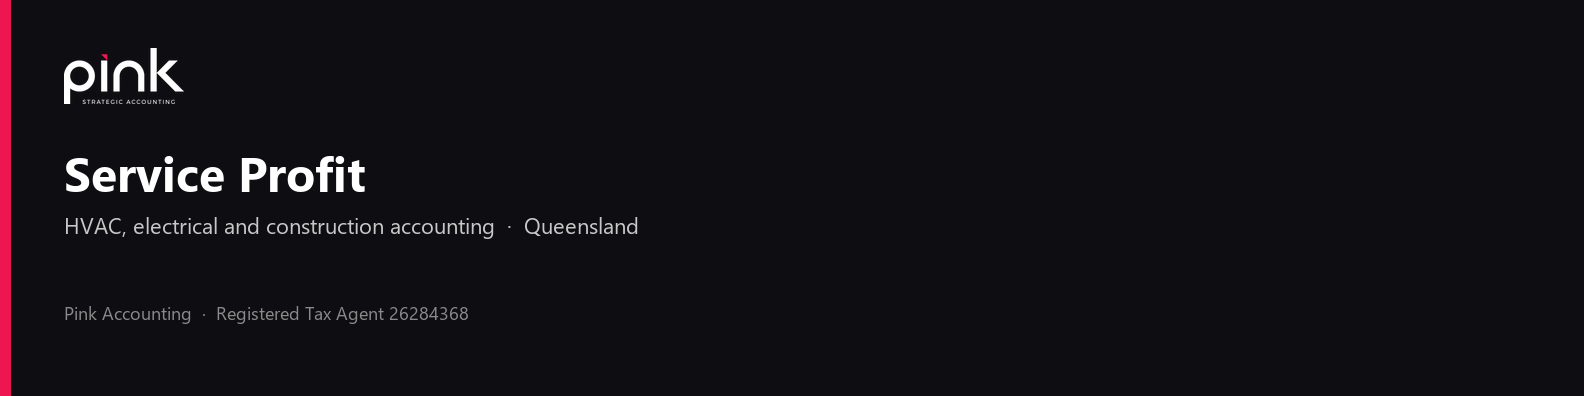
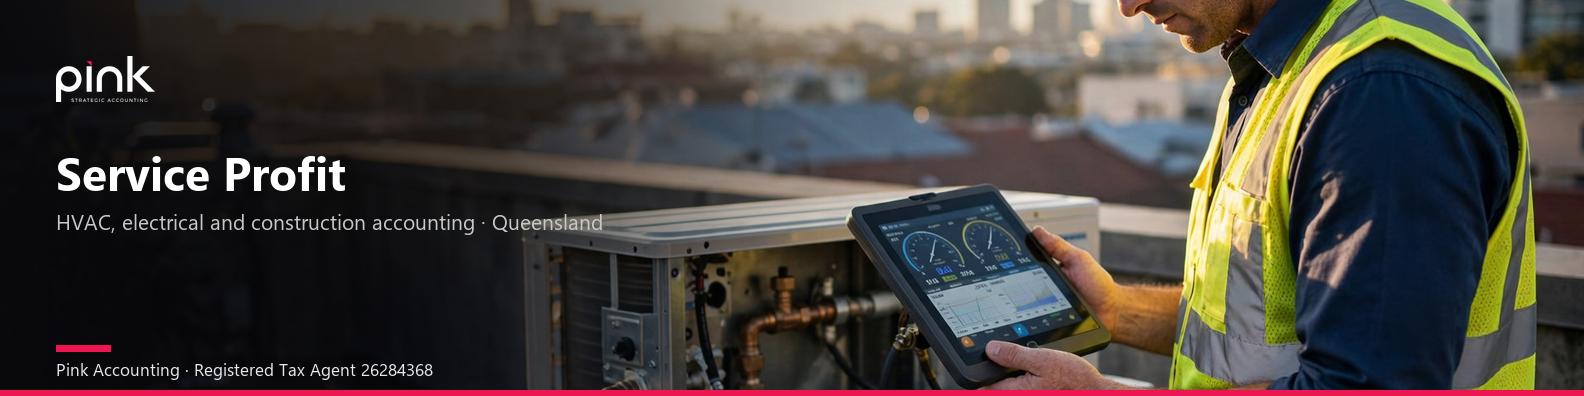
Service Profit social artwork rebuilt photo-led (profile, covers, OG, feed posts) - DRAFT for Pinky approval

diff --git a/tools/build_assets.py b/tools/build_assets.py
@@ -136,67 +136,128 @@ def _paste_logo(canvas, xy, height):
     canvas.paste(logo, xy, logo)
 
 
+SOCIAL = ASSETS / "social"
+MASTERS = SOCIAL / "masters"
+
+
+def _cover_crop(im, size):
+    tw, th = size
+    scale = max(tw / im.width, th / im.height)
+    resized = im.resize((round(im.width * scale), round(im.height * scale)), Image.Resampling.LANCZOS)
+    x = max(0, (resized.width - tw) // 2)
+    y = max(0, (resized.height - th) // 2)
+    return resized.crop((x, y, x + tw, y + th))
+
+
+def _scrim(im, left_alpha=225):
+    w, h = im.size
+    grad = Image.new("L", (w, h), 0)
+    px = grad.load()
+    for x in range(w):
+        a = int(left_alpha * max(0.0, 1 - x / (w * 0.72)) ** 1.35)
+        for y in range(h):
+            px[x, y] = a
+    black = Image.new("RGB", (w, h), (10, 10, 14))
+    return Image.composite(black, im, grad)
+
+
+def _master(name):
+    path = MASTERS / name
+    if not path.exists():
+        raise FileNotFoundError(f"social master missing: {path}")
+    return Image.open(path).convert("RGB")
+
+
+def _banner(size, master, headline, sub, footer, logo_h, head_size, sub_size, foot_size, pad):
+    im = _scrim(_cover_crop(_master(master), size))
+    w, h = size
+    _paste_logo(im, (pad, pad), logo_h)
+    d = ImageDraw.Draw(im)
+    y = pad + logo_h + int(h * 0.10)
+    d.text((pad, y), headline, fill=WHITE, font=_font(head_size))
+    y += int(head_size * 1.45)
+    for line in sub:
+        d.text((pad, y), line, fill=MUTED, font=_font(sub_size, bold=False))
+        y += int(sub_size * 1.5)
+    d.rectangle([pad, h - foot_size - 34, pad + 54, h - foot_size - 28], fill=PINK)
+    d.text((pad, h - foot_size - 22), footer, fill="#E8E8E8", font=_font(foot_size, bold=False))
+    d.rectangle([0, h - 6, w, h], fill=PINK)
+    return im
+
+
 def build_og() -> None:
-    og = Image.new("RGB", (1200, 630), INK)
-    d = ImageDraw.Draw(og)
-    d.rectangle([0, 0, 8, 630], fill=PINK)
-    _paste_logo(og, (72, 56), 56)
-    d.text((72, 200), "Service Profit", fill=WHITE, font=_font(64))
-    d.text((72, 286), "Pink Accounting for HVAC, electrical", fill=MUTED, font=_font(32, bold=False))
-    d.text((72, 330), "and construction service businesses.", fill=MUTED, font=_font(32, bold=False))
-    d.text((72, 520), "Queensland  ·  Registered Tax Agent 26284368", fill=SOFT, font=_font(22, bold=False))
+    og = _banner(
+        (1200, 630), "hvac-rooftop.jpg", "Service Profit",
+        ["Accounting for air con, electrical", "and construction businesses."],
+        "Pink Accounting \u00b7 Brendale QLD \u00b7 Registered Tax Agent 26284368",
+        logo_h=52, head_size=62, sub_size=29, foot_size=20, pad=64,
+    )
     png = ASSETS / "og.png"
-    webp = ASSETS / "og.webp"
     og.save(png, "PNG", optimize=True)
-    og.save(webp, "WEBP", quality=82, method=6)
-    print("og", png.stat().st_size, webp.stat().st_size)
+    print("og", png.stat().st_size)
 
 
 def build_social() -> None:
-    social = ASSETS / "social"
-    social.mkdir(exist_ok=True)
+    SOCIAL.mkdir(exist_ok=True)
 
     def save(im, name):
-        path = social / name
+        path = SOCIAL / name
         im.save(path, "PNG", optimize=True)
         print(name, im.size, path.stat().st_size)
 
     av = Image.new("RGB", (1080, 1080), INK)
+    logo = Image.open(ASSETS / "logo-white.png").convert("RGBA")
+    lh = 148
+    logo = logo.resize((int(logo.width * lh / logo.height), lh), Image.Resampling.LANCZOS)
+    av.paste(logo, ((1080 - logo.width) // 2, 262), logo)
     d = ImageDraw.Draw(av)
-    d.rectangle([0, 0, 16, 1080], fill=PINK)
-    _paste_logo(av, (96, 280), 88)
-    d.text((96, 420), "Service Profit", fill=WHITE, font=_font(64))
-    d.text((96, 510), "HVAC, electrical and construction", fill=MUTED, font=_font(28, bold=False))
-    d.text((96, 900), "Pink Accounting  ·  Tax Agent 26284368", fill=SOFT, font=_font(24, bold=False))
+    f_head = _font(94)
+    head = "Service Profit"
+    d.text(((1080 - d.textlength(head, font=f_head)) / 2, 446), head, fill=WHITE, font=f_head)
+    d.rectangle([460, 576, 620, 585], fill=PINK)
+    f_sub = _font(29, bold=False)
+    sub = "AIR CON \u00b7 ELECTRICAL \u00b7 CONSTRUCTION"
+    d.text(((1080 - d.textlength(sub, font=f_sub)) / 2, 620), sub, fill=MUTED, font=f_sub)
+    f_foot = _font(26, bold=False)
+    foot = "A Pink Accounting service"
+    d.text(((1080 - d.textlength(foot, font=f_foot)) / 2, 672), foot, fill=SOFT, font=f_foot)
     save(av, "profile-1080.png")
+    av.resize((720, 720), Image.Resampling.LANCZOS).save(SOCIAL / "profile-facebook-720.png", "PNG", optimize=True)
+    av.resize((300, 300), Image.Resampling.LANCZOS).save(SOCIAL / "profile-linkedin-300.png", "PNG", optimize=True)
+    print("profile exports 720/300 written")
 
-    fb = Image.new("RGB", (1640, 624), INK)
-    d = ImageDraw.Draw(fb)
-    d.rectangle([0, 0, 12, 624], fill=PINK)
-    _paste_logo(fb, (72, 140), 56)
-    d.text((72, 230), "Service Profit", fill=WHITE, font=_font(56))
-    d.text((72, 310), "Accounting for HVAC, electrical and construction.", fill=MUTED, font=_font(28, bold=False))
-    d.text((72, 500), "Pink Accounting  ·  Brendale  ·  Queensland", fill=SOFT, font=_font(22, bold=False))
-    save(fb, "cover-facebook.png")
+    save(_banner((1640, 624), "electrical-switchboard.jpg", "Service Profit",
+                 ["Accounting for HVAC, electrical and construction."],
+                 "Pink Accounting \u00b7 Brendale \u00b7 Queensland",
+                 logo_h=56, head_size=60, sub_size=29, foot_size=22, pad=72), "cover-facebook.png")
+    save(_banner((1584, 396), "hvac-rooftop.jpg", "Service Profit",
+                 ["HVAC, electrical and construction accounting \u00b7 Queensland"],
+                 "Pink Accounting \u00b7 Registered Tax Agent 26284368",
+                 logo_h=46, head_size=46, sub_size=21, foot_size=17, pad=56), "cover-linkedin.png")
+    save(_banner((1200, 675), "construction-fitout.jpg", "Service Profit",
+                 ["Job profit while you can still", "change the next quote."],
+                 "Pink Accounting \u00b7 Brendale QLD \u00b7 Tax Agent 26284368",
+                 logo_h=52, head_size=56, sub_size=28, foot_size=20, pad=64), "cover-google.png")
 
-    li = Image.new("RGB", (1584, 396), INK)
-    d = ImageDraw.Draw(li)
-    d.rectangle([0, 0, 10, 396], fill=PINK)
-    _paste_logo(li, (64, 48), 56)
-    d.text((64, 140), "Service Profit", fill=WHITE, font=_font(48))
-    d.text((64, 210), "HVAC, electrical and construction accounting  ·  Queensland", fill=MUTED, font=_font(22, bold=False))
-    d.text((64, 300), "Pink Accounting  ·  Registered Tax Agent 26284368", fill=SOFT, font=_font(18, bold=False))
-    save(li, "cover-linkedin.png")
+    posts = [
+        ("post-quoted-hours.png", "electrical-switchboard.jpg", "You quoted 6 hours.", "You did 9.", "We show you the gap every Monday, then fix the next quote."),
+        ("post-bank-not-yours.png", "hvac-rooftop.jpg", "The bank looks full.", "It is not all yours.", "GST, PAYG, super and wages sit in there. We pull it apart weekly."),
+        ("post-first-monday.png", "construction-fitout.jpg", "Know which jobs paid.", "While you can still act.", "Quoted hours against hours on the tools, in your inbox Monday."),
+    ]
+    for name, master, line1, line2, body in posts:
+        im = Image.new("RGB", (1080, 1350), INK)
+        photo = _cover_crop(_master(master), (1080, 700))
+        im.paste(photo, (0, 0))
+        d = ImageDraw.Draw(im)
+        d.rectangle([0, 694, 1080, 700], fill=PINK)
+        _paste_logo(im, (64, 748), 52)
+        d = ImageDraw.Draw(im)
+        d.text((64, 842), line1, fill=WHITE, font=_font(58))
+        d.text((64, 922), line2, fill="#FF6E92", font=_font(58))
+        d.text((64, 1032), body, fill=MUTED, font=_font(28, bold=False))
+        d.text((64, 1246), "Service Profit \u00b7 Pink Accounting \u00b7 (07) 3544 6386", fill=SOFT, font=_font(22, bold=False))
+        save(im, name)
 
-    g = Image.new("RGB", (1200, 675), INK)
-    d = ImageDraw.Draw(g)
-    d.rectangle([0, 0, 10, 675], fill=PINK)
-    _paste_logo(g, (64, 120), 56)
-    d.text((64, 220), "Service Profit", fill=WHITE, font=_font(56))
-    d.text((64, 300), "Job profit while you can still", fill=MUTED, font=_font(28, bold=False))
-    d.text((64, 344), "change the next quote.", fill=MUTED, font=_font(28, bold=False))
-    d.text((64, 540), "Pink Accounting  ·  Brendale QLD  ·  Tax Agent 26284368", fill=SOFT, font=_font(20, bold=False))
-    save(g, "cover-google.png")
 
 
 def build_favicon() -> None:

diff --git a/assets/social/README.md b/assets/social/README.md
@@ -1,0 +1,45 @@
+# Service Profit social artwork
+
+Status: DRAFT for Pinky approval. Do not upload until Pinky says go.
+
+Rebuilt 27 October 2026. The old set was flat black rectangles with small
+white text and no photography. This set is photo-led, built by
+`tools/build_assets.py` (`build_social()` and `build_og()`).
+
+## Files
+
+| File | Size | Use |
+|---|---|---|
+| profile-1080.png | 1080 x 1080 | Master profile picture |
+| profile-linkedin-300.png | 300 x 300 | LinkedIn company page logo |
+| profile-facebook-720.png | 720 x 720 | Facebook page profile picture |
+| profile-circle-preview.png | 1080 x 1080 | Check only: how the circle crop looks. Do not upload. |
+| cover-linkedin.png | 1584 x 396 | LinkedIn company page cover |
+| cover-facebook.png | 1640 x 624 | Facebook page cover |
+| cover-google.png | 1200 x 675 | Google / general cover |
+| post-quoted-hours.png | 1080 x 1350 | Feed post: quoted 6, did 9 |
+| post-bank-not-yours.png | 1080 x 1350 | Feed post: bank is not all yours |
+| post-first-monday.png | 1080 x 1350 | Feed post: know which jobs paid |
+
+Site share image: `assets/og.png` (1200 x 630) uses the same system.
+
+## Masters
+
+Photographic masters sit in `masters/` (hvac-rooftop, electrical-switchboard,
+construction-fitout). They are illustrative brand artwork, not photos of
+Pink staff, clients or client jobs. Do not caption them as real people or
+real jobs.
+
+## Brand rules applied
+
+- Service Profit is a service name. Every piece carries Pink Accounting.
+- Pink #ED1651 is an accent line only, never a fill.
+- Charcoal #0E0E12 panels, white type, Segoe UI.
+- Registered Tax Agent 26284368 where the format allows it.
+- Rebuild: `python -c "import sys; sys.path.insert(0,'tools'); import build_assets; build_assets.build_og(); build_assets.build_social()"`
+
+## Upload order (after Pinky approval)
+
+1. LinkedIn company page: profile-linkedin-300.png, then cover-linkedin.png.
+2. Facebook page: profile-facebook-720.png, then cover-facebook.png.
+3. Keep profile-1080.png as the master for any new surface.
